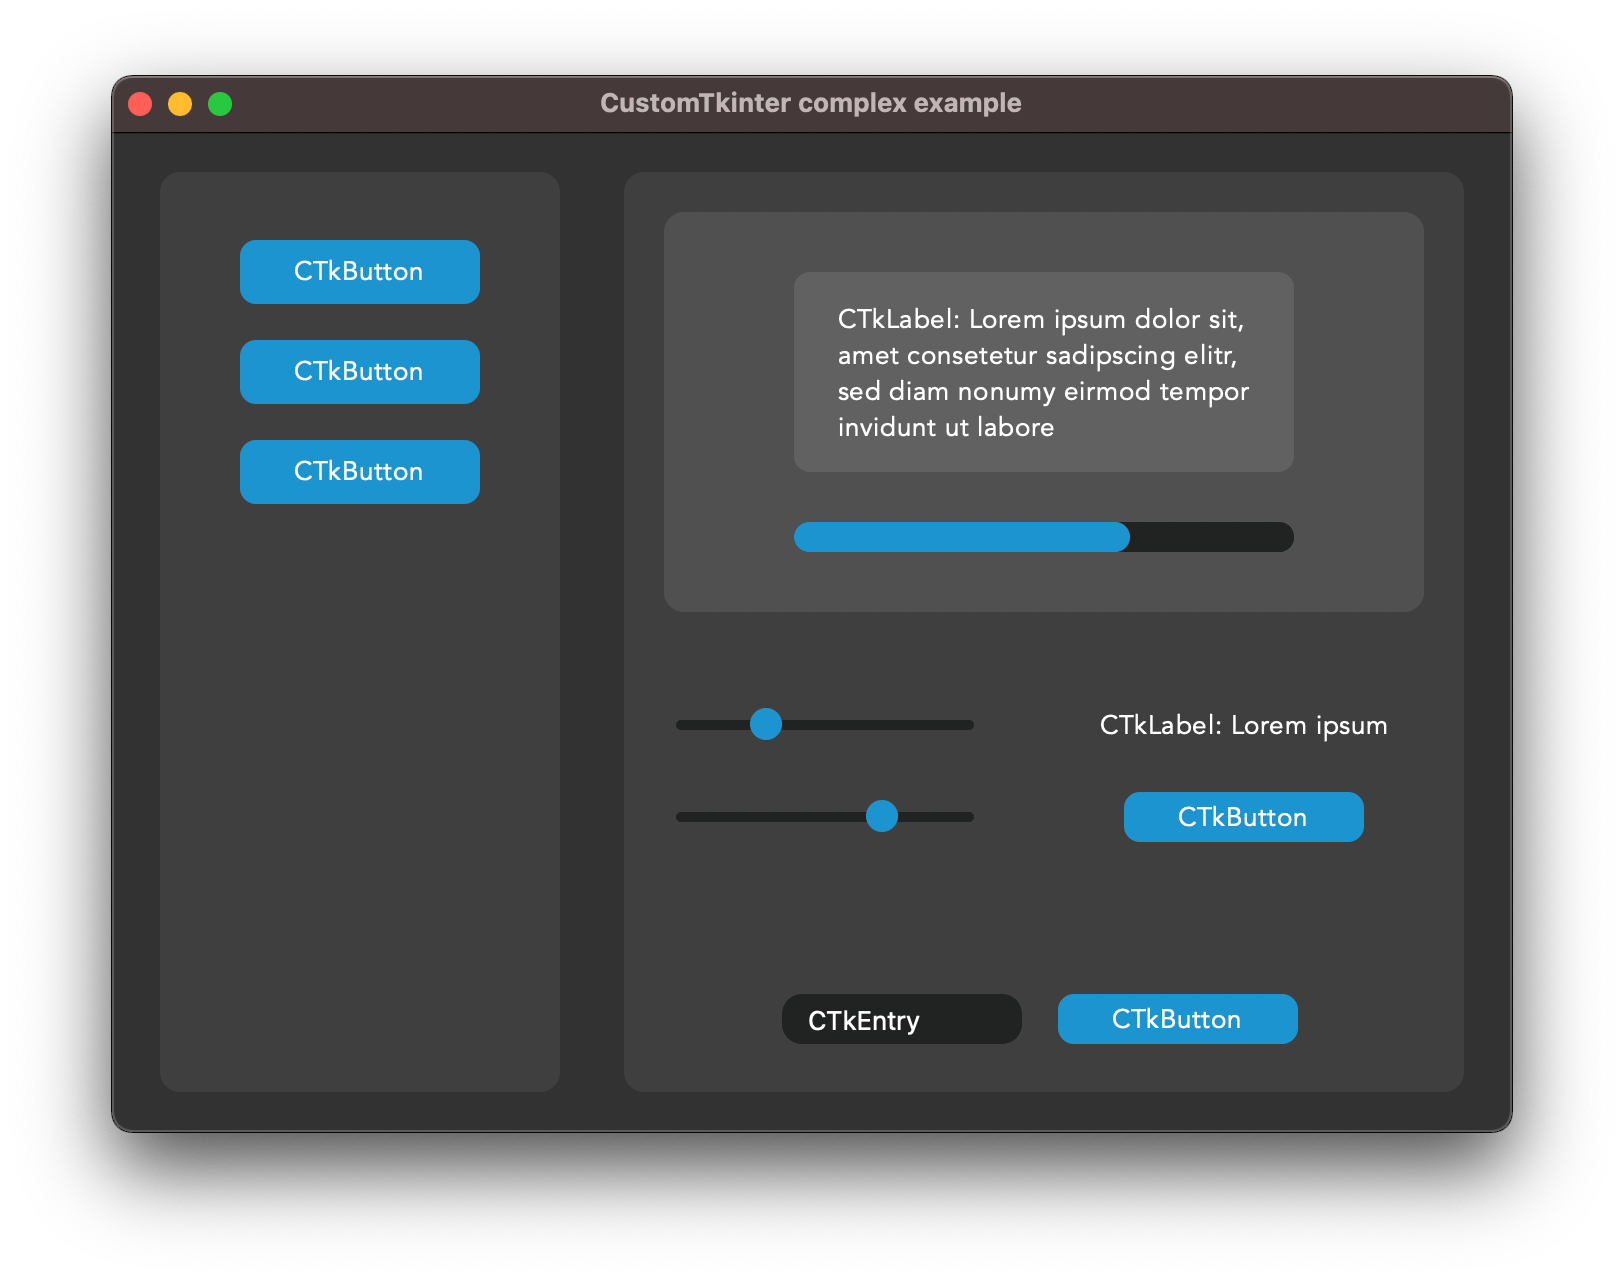
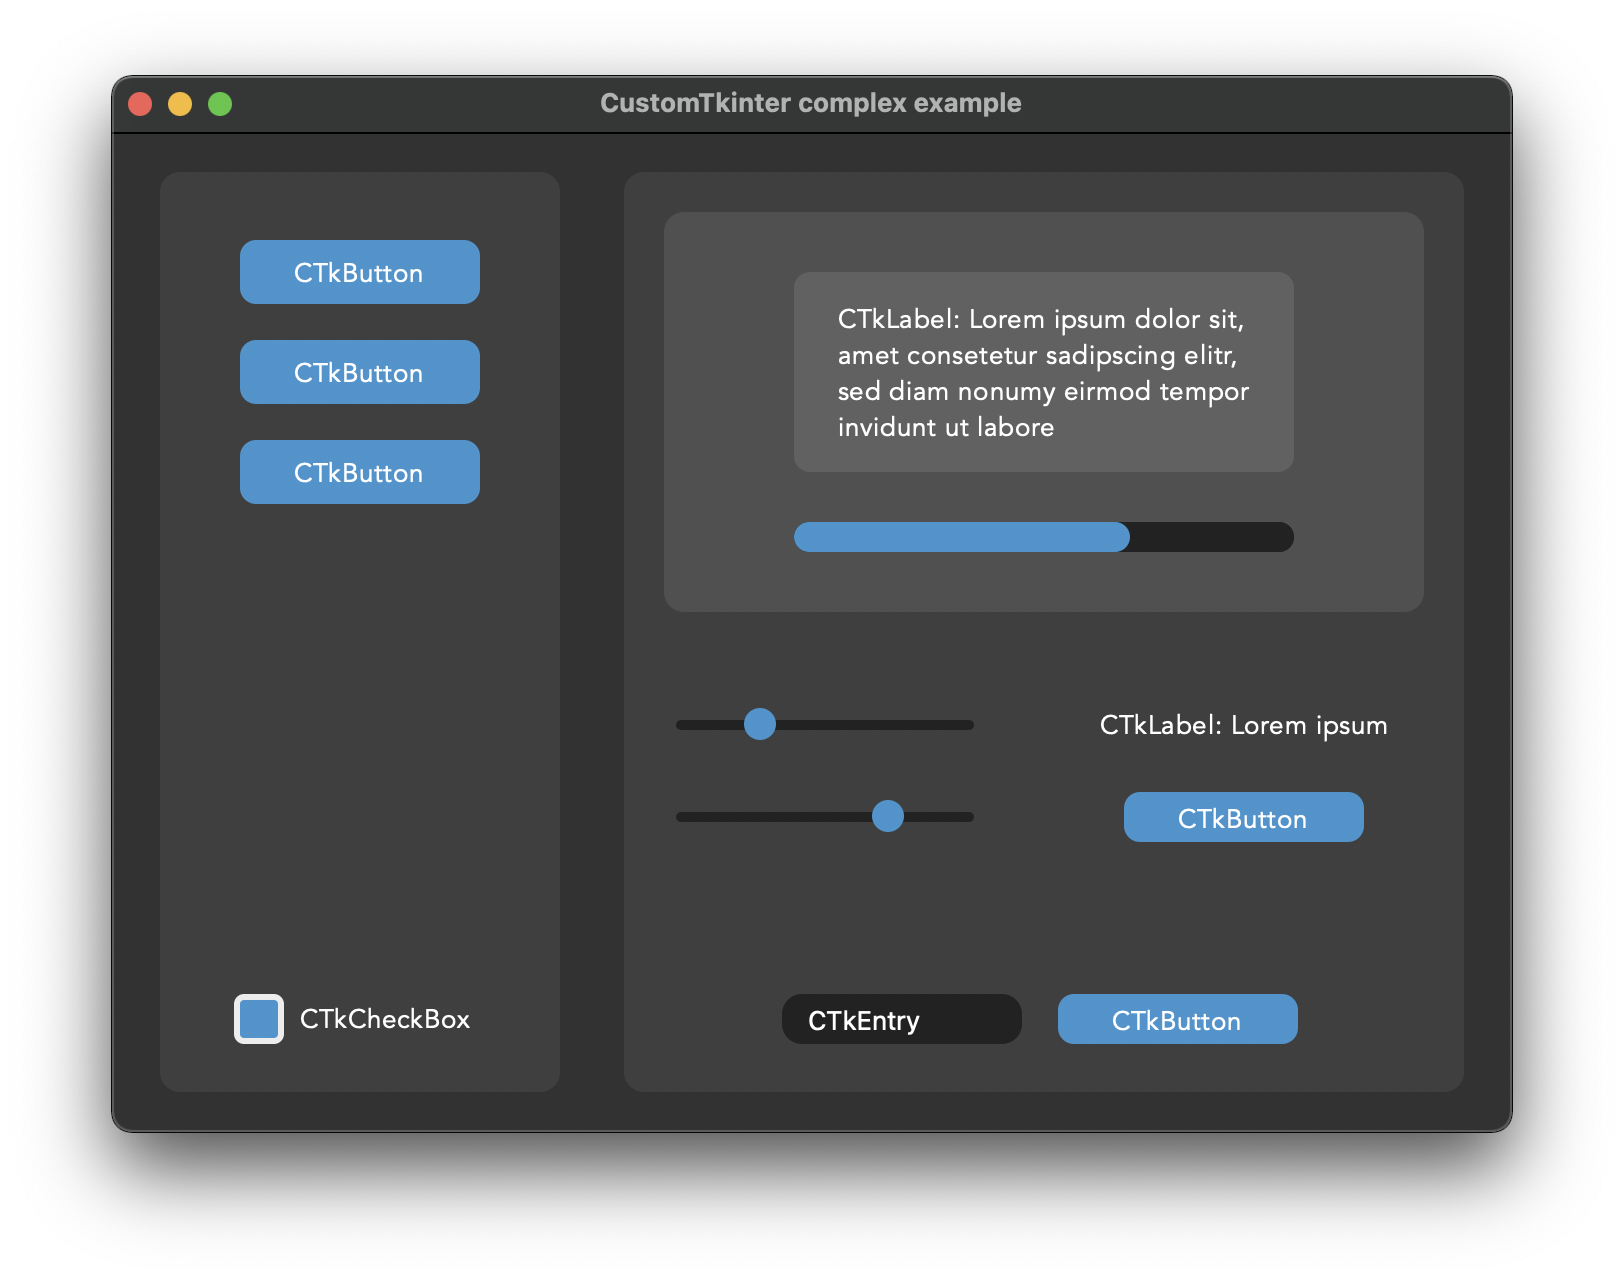
updated documentation images

diff --git a/examples/complex_example.py b/examples/complex_example.py
@@ -62,6 +62,10 @@ class App(tkinter.Tk):
                                                 corner_radius=8)
         self.button_3.place(relx=0.5, y=150, anchor=tkinter.CENTER)
 
+        self.check_box_1 = customtkinter.CTkCheckBox(master=self.frame_left,
+                                                     text="CTkCheckBox")
+        self.check_box_1.place(relx=0.5, rely=0.92, anchor=tkinter.CENTER)
+
         # ============ frame_right ============
 
         self.frame_info = customtkinter.CTkFrame(master=self.frame_right,

diff --git a/customtkinter/customtkinter_checkbox.py b/customtkinter/customtkinter_checkbox.py
@@ -15,8 +15,8 @@ class CTkCheckBox(tkinter.Frame):
                  hover_color=CTkColorManager.MAIN_HOVER,
                  border_color=CTkColorManager.CHECKBOX_LINES,
                  border_width=3,
-                 width=24,
-                 height=24,
+                 width=25,
+                 height=25,
                  corner_radius=5,
                  text_font=None,
                  text_color=CTkColorManager.TEXT,

diff --git a/setup.py b/setup.py
@@ -1,6 +1,14 @@
 from setuptools import setup
 import os
 
+# Update in pypi:
+#
+# 1. delete old /dist
+# 2. python3 -m pip install --upgrade build
+# 3. python3 -m build
+# 4. python3 -m twine upload dist/*
+#
+
 
 def read(filename):
     try:

diff --git a/Readme.md b/Readme.md
@@ -21,7 +21,7 @@ To use CustomTkinter, just place the /customtkinter folder from this repository
 next to your program, or **install the module with pip**:
 
 ```
-pip install customtkinter
+pip3 install customtkinter
 ```
 PyPI: https://pypi.org/project/customtkinter/
 
